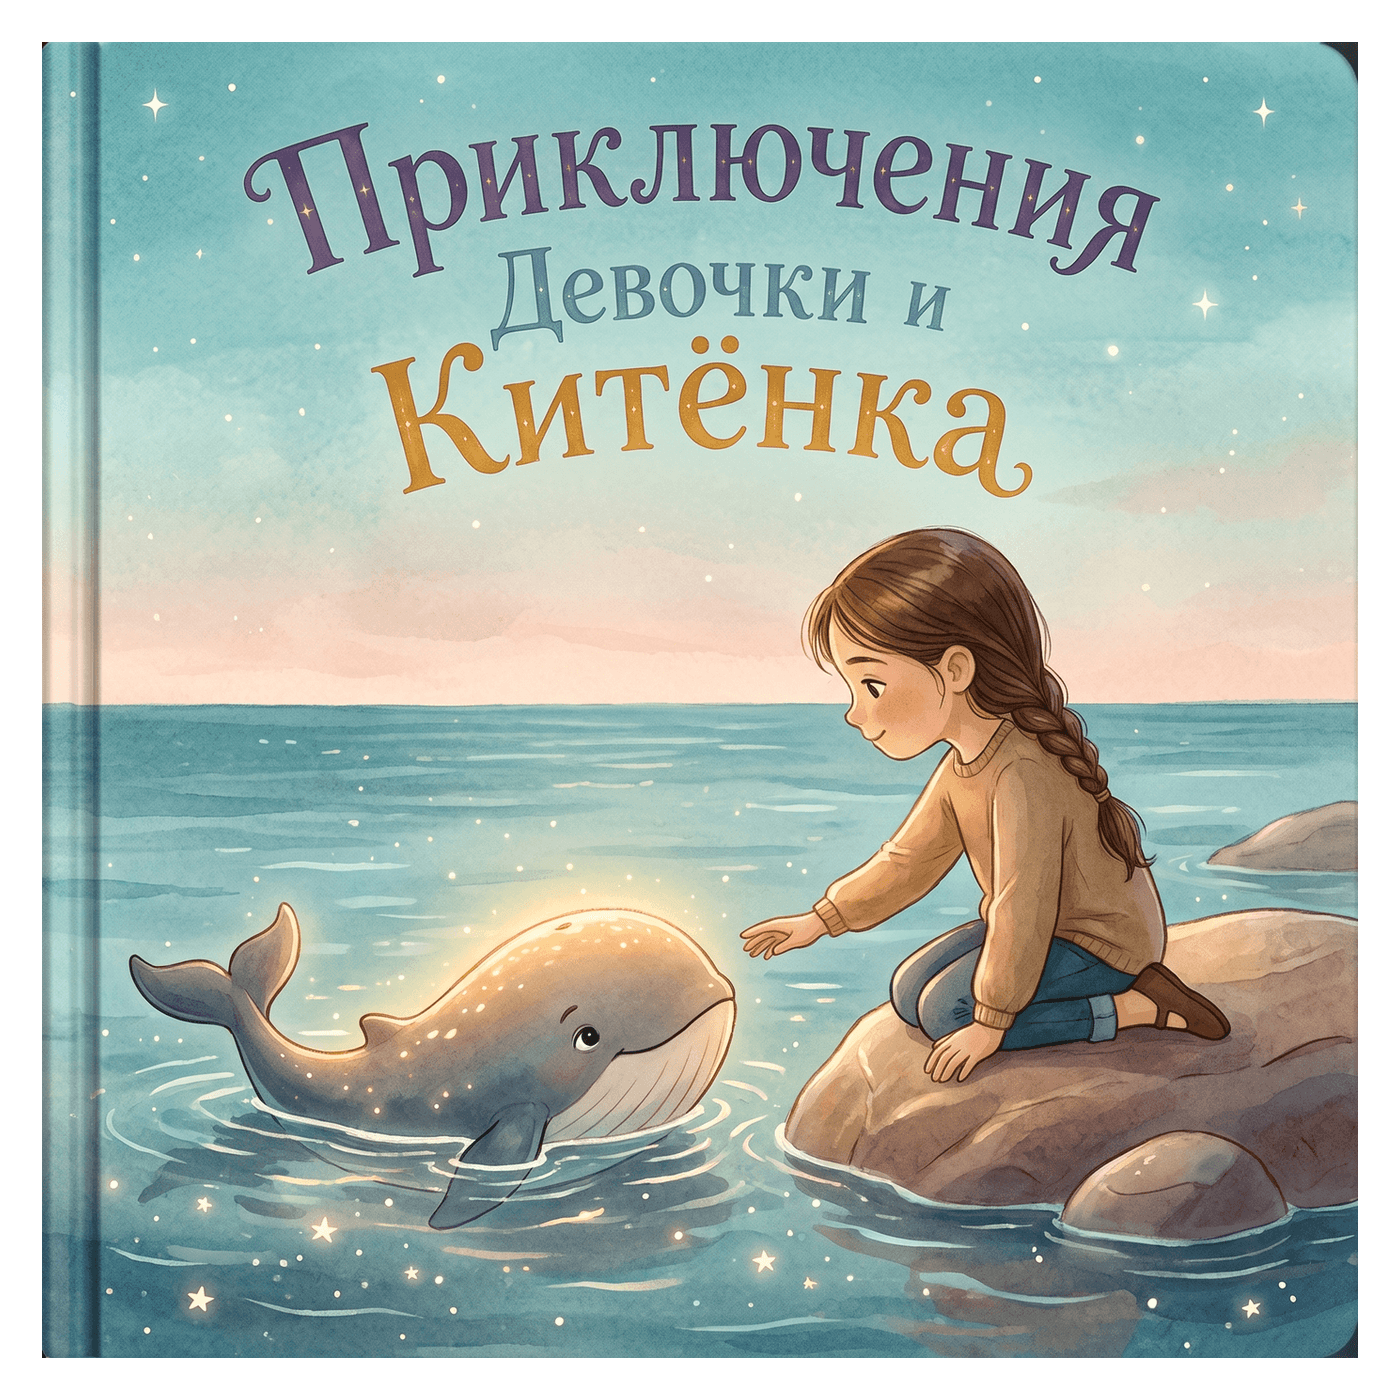
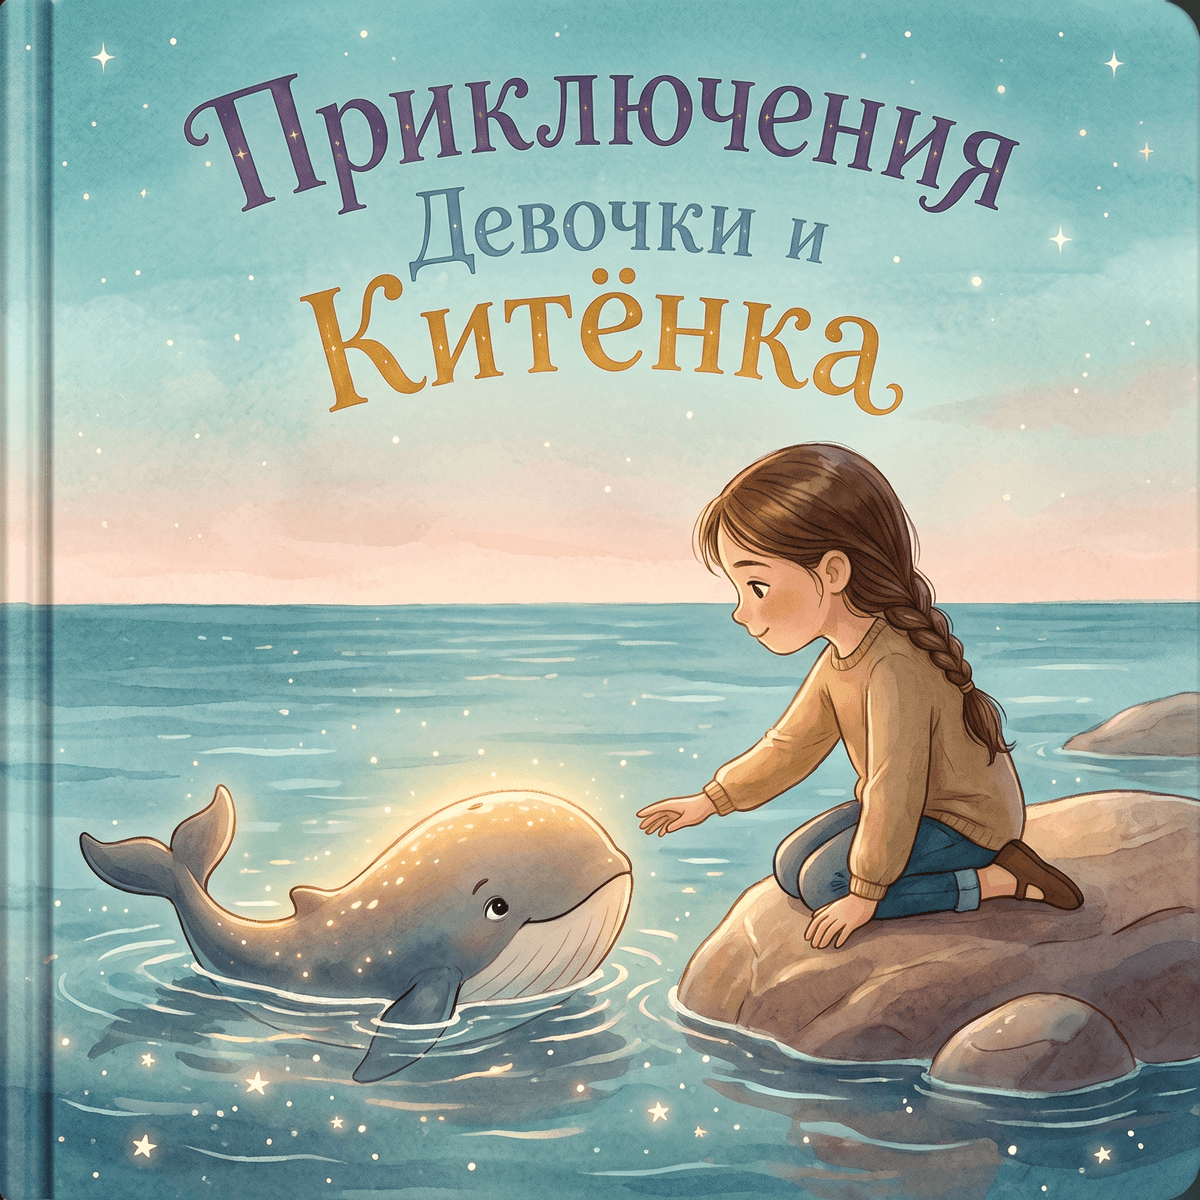
Flatten every cover to one frame, and stop the prompt naming one book
Two problems, one visible and one not.

The catalogue grid showed books at different sizes: some covers were flat
artwork filling the square, others were 3D mockups with a spine, a soft shadow
and a pale margin baked into the image. Every cover is now the book face alone,
edge to edge, at 1200×1200. The mockup frame is detected from the pixels —
near-white, low-saturation background — rather than assumed, so a flat cover is
left alone and only a mockup is cropped. scripts/flatten-covers.mjs does this
for future artwork.

The generation prompt named the contents of the first cover: the blue car, the
forest, the bridge, the mushrooms, the yellow t-shirt, the 3D book mockup. On
that book it worked. On the dragon, the whale and the steam engine it was
instructing the model to preserve things that were not in the image, and to
keep a mockup the covers no longer have. It now describes what to preserve by
role — "every other character", "the entire background" — so one prompt serves
all eighteen books and whatever style each is drawn in.

A test pins that: the prompt must not mention a blue car, a waterfall,
mushrooms, a yellow t-shirt, a hardcover mockup, or 3D animation specifically.

diff --git a/src/lib/generation/nano-banana.ts b/src/lib/generation/nano-banana.ts
@@ -53,36 +53,42 @@ const ACCEPTED_RESULT_TYPES = new Set(["image/png", "image/jpeg", "image/webp"])
 /**
  * The instruction that does the actual work.
  *
- * Four things it insists on, each learned by looking at what comes back
+ * Deliberately says nothing about any particular book. An earlier version was
+ * written against the first cover and named its contents — the blue car, the
+ * forest, the bridge, the yellow t-shirt, the 3D book mockup. On that cover it
+ * worked; on the dragon, the whale and the steam engine it was instructing the
+ * model to preserve things that were not there, and to keep a mockup frame the
+ * covers no longer have. What must be preserved is now described by role
+ * ("every other character", "the whole background") rather than by name, so
+ * one prompt serves every book in the catalogue.
+ *
+ * Four clauses earn their place, each established by looking at what comes back
  * without them:
  *
  *   • An exhaustive list of what must not change. Asked loosely, the model
- *     redraws the whole cover — different trees, different title lettering, a
- *     different car — and the result is no longer the book being sold.
+ *     redraws the entire cover and the result is no longer the book being sold.
  *   • "Do not make the character photorealistic." Without it the model drops a
- *     photographic child into cartoon artwork, which is precisely the
- *     cut-and-paste look this feature exists to avoid.
- *   • Likeness named as the priority, with the specific features to study
- *     listed one by one. Told merely to "use the child's identity" it drifts
- *     toward a generic cartoon child who happens to share a hair colour.
- *   • Clothing taken approximately from the photograph. Keeping the book's
- *     outfit was tidier and looked less like the child: a parent recognises
- *     their own kid partly by what they are wearing.
- *
- * Pose stays with the book, so the composition the cover was designed around
- * survives.
+ *     photographic child into illustrated artwork — the cut-and-paste look this
+ *     feature exists to avoid.
+ *   • Likeness named as the priority, with the features to study listed. Told
+ *     merely to "use the child's identity" it drifts to a generic child who
+ *     happens to share a hair colour.
+ *   • Clothing taken approximately from the photograph. A parent recognises
+ *     their own child partly by what they are wearing.
  */
 const COMPOSITION_PROMPT = `Img 1 is a finished children's book cover. Img 2 is a photograph of a real child.
 
-Redraw ONLY the child character in Img 1 so that it depicts the child from Img 2. Change nothing else in the image.
+Redraw ONLY the human child character in Img 1 so that it depicts the child from Img 2. Change nothing else in the image.
 
-LIKENESS IS THE PRIORITY. Study the face in Img 2 closely and reproduce it as a cartoon character: the exact face shape and jawline, the width and spacing of the eyes, the eye colour, the shape and thickness of the eyebrows, the shape of the nose, the shape of the mouth and the exact smile, the ears, the skin tone, and any distinctive detail such as freckles, dimples, a gap between the front teeth or a particular hair parting. Someone who knows this child must recognise them instantly. Do not drift toward a generic cartoon child.
+LIKENESS IS THE PRIORITY. Study the face in Img 2 closely and reproduce it in the illustration style of Img 1: the face shape and jawline, the width and spacing of the eyes, the eye colour, the shape and thickness of the eyebrows, the shape of the nose, the shape of the mouth and the exact smile, the ears, the skin tone, and any distinctive detail such as freckles, dimples, a gap between the front teeth or a particular hair parting. Someone who knows this child must recognise them. Do not drift toward a generic child.
 
-CLOTHING: dress the character in an outfit that approximately matches what the child is wearing in Img 2 — same garment type and same main colours — redrawn in the book's illustration style. Keep the character's shoes and the general silhouette consistent with the original character.
+CLOTHING: dress the character in an outfit that approximately matches what the child is wearing in Img 2 — same garment type and same main colours — redrawn in the book's illustration style, and appropriate to the setting and weather shown in Img 1.
 
-Keep identical to Img 1: the title text and its exact lettering, colours and position; the blue cartoon car and its face; the forest, path, bridge, waterfall, mushrooms and flowers; the lighting, shadows and colour grading; the camera angle and composition; the character's pose, gesture and position in the frame; and the 3D hardcover book mockup shape with its edge and drop shadow.
+Keep completely unchanged, exactly as they appear in Img 1: all title text and lettering, including its typefaces, colours, sizes and positions; every other character, animal, creature, vehicle or object in the scene; the entire background and every element in it; the lighting, shadows, reflections and colour grading; the camera angle, framing and composition; and the child's pose, gesture, scale and position within the frame.
 
-The character must stay entirely in the book's own 3D-animated illustration style: same rendering, same stylised cartoon proportions, same large expressive cartoon eyes, same soft shading and outline treatment as the original character. Do NOT make the character photorealistic. Do NOT paste or blend the photograph into the artwork.`;
+The character must stay entirely in the book's own illustration style — whatever that style is in Img 1, whether 3D animation or watercolour — matching its rendering, line quality, level of stylisation, eye treatment and shading exactly as the original character was drawn. Do NOT make the character photorealistic. Do NOT paste or blend the photograph into the artwork.
+
+Output the full cover at the same crop and aspect ratio as Img 1, with no added border, frame, mockup, spine or drop shadow.`;
 
 interface Config {
   apiKey: string;

diff --git a/tests/nano-banana.test.ts b/tests/nano-banana.test.ts
@@ -178,7 +178,7 @@ describe("Nano Banana provider contract", () => {
 
     // The prompt is the feature. These two clauses are what stop the model
     // returning a photograph pasted onto cartoon artwork.
-    assert.match(body.input.prompt, /Redraw ONLY the child character/);
+    assert.match(body.input.prompt, /Redraw ONLY the human child character/);
     assert.match(body.input.prompt, /Do NOT make the character photorealistic/);
     assert.match(body.input.prompt, /Do NOT paste or blend the photograph/);
     // Both were added after looking at results that were technically correct
@@ -186,6 +186,16 @@ describe("Nano Banana provider contract", () => {
     // and the outfit stays the book's.
     assert.match(body.input.prompt, /LIKENESS IS THE PRIORITY/);
     assert.match(body.input.prompt, /CLOTHING: dress the character/);
+
+    // The prompt must not name anything from one particular book: it is sent
+    // for all eighteen, and an earlier version told the model to preserve a
+    // blue car and a forest on covers that had neither.
+    for (const bookSpecific of [
+      /blue cartoon car/i, /waterfall/i, /mushrooms/i, /yellow t-shirt/i,
+      /hardcover book mockup/i, /3D-animated illustration style/,
+    ]) {
+      assert.doesNotMatch(body.input.prompt, bookSpecific);
+    }
   });
 
   test("the child's photograph is passed as a signed link, never a public one", async () => {
